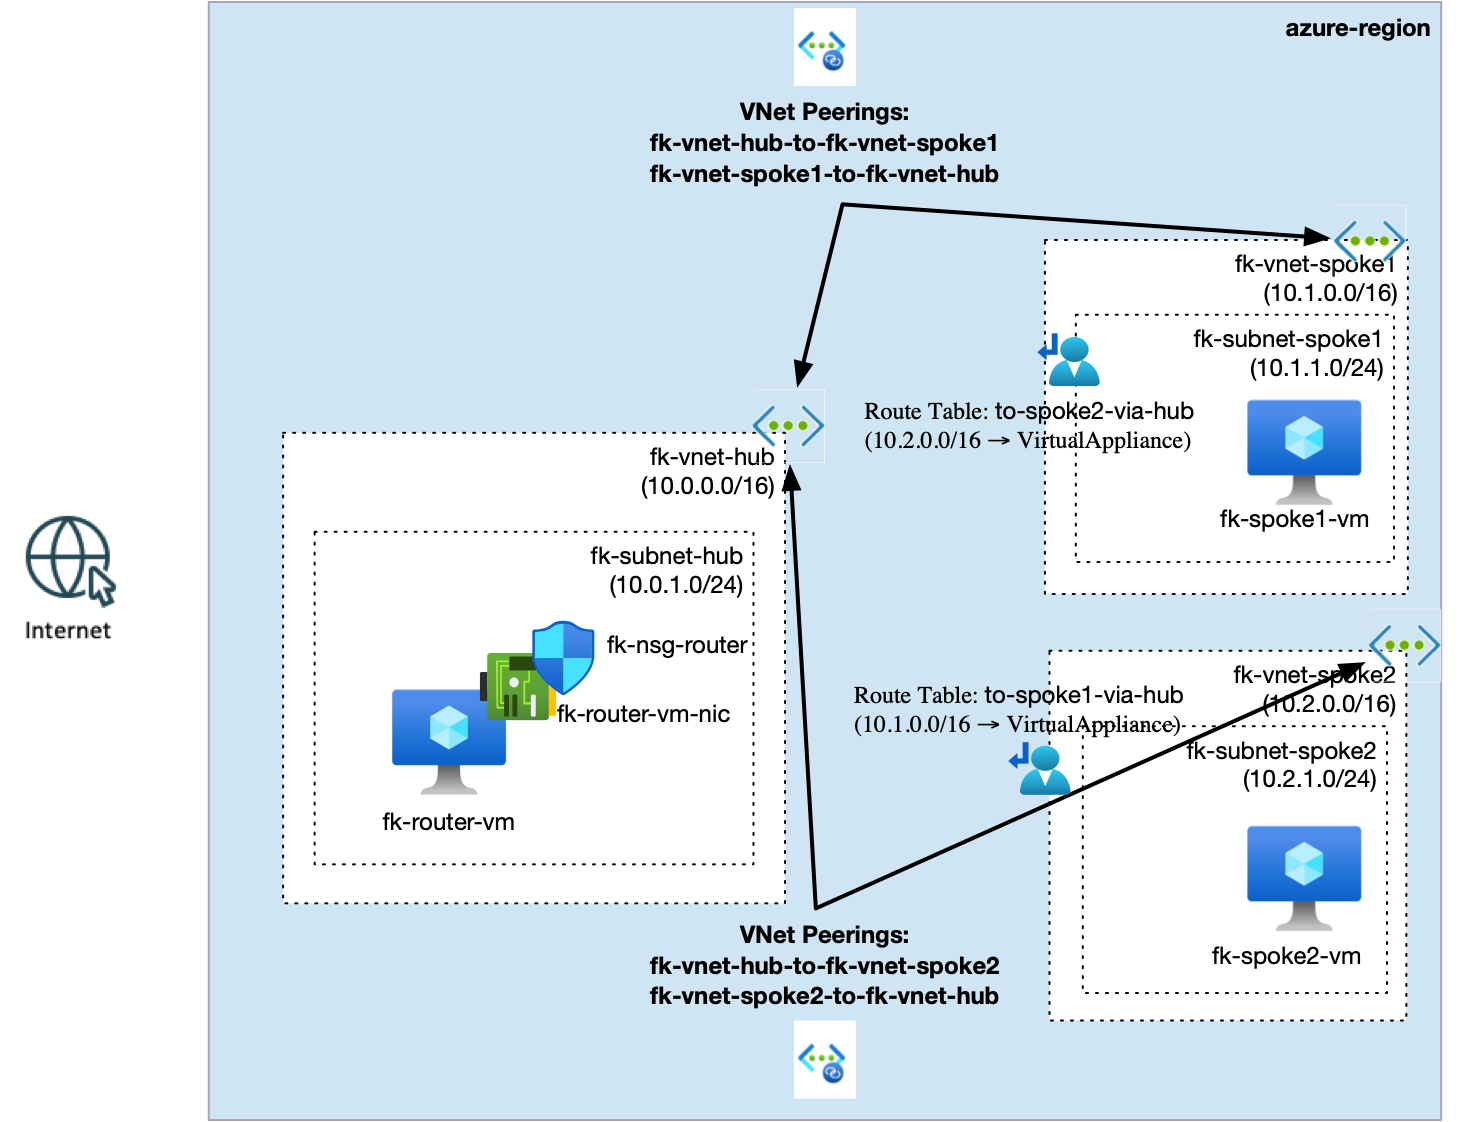
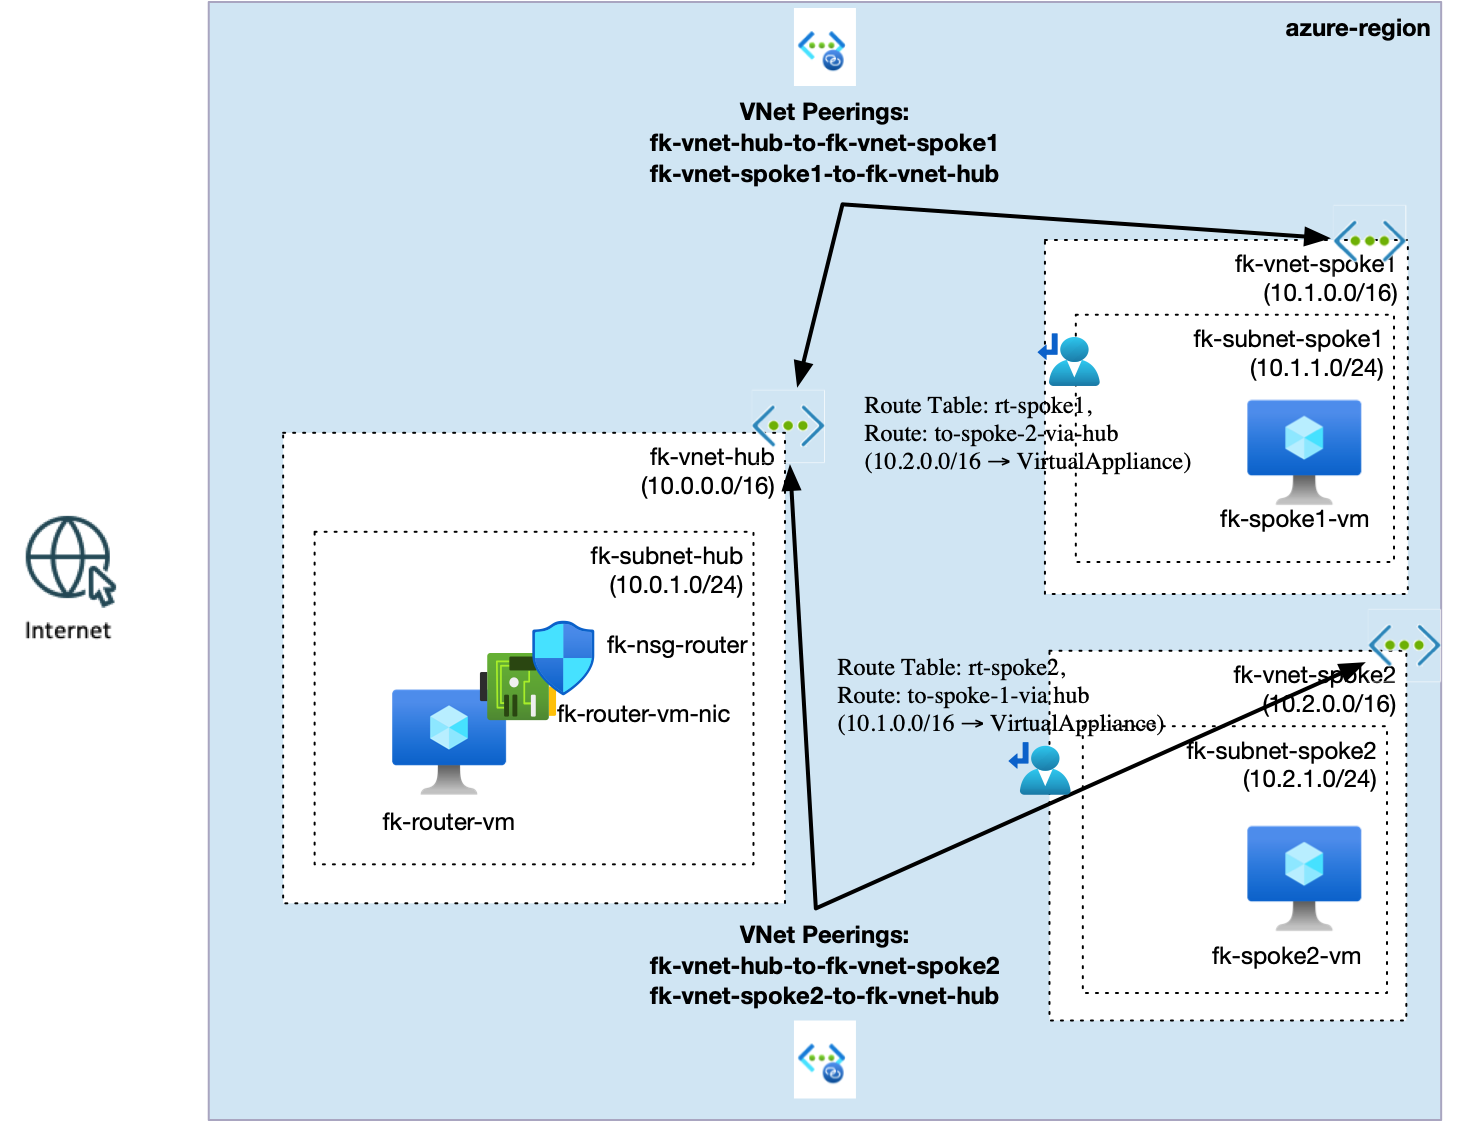
Fixed README and architecture picture

Changed region(s): [[0.5848, 0.3431, 0.8311, 0.4367], [0.554, 0.5927, 0.8003, 0.6551]]

diff --git a/examples/02_hub_spoke_with_routing/README.md b/examples/02_hub_spoke_with_routing/README.md
@@ -6,7 +6,7 @@ The Hub contains a **Linux router VM** built with `terraform-az-fk-compute`, and
 
 To make testing possible, the example also deploys **one Linux VM in Spoke1** and **one Linux VM in Spoke2**.
 
-The SSH key pair is generated locally by `tls.tf`, following the same pattern used in `/Users/mlinxfeld/codes/github/terraform-az-fk-compute/examples/01_single_vm/tls.tf`.
+The SSH key pair is generated locally by `tls.tf`, following the same pattern used in [terraform-az-fk-compute](https://github.com/mlinxfeld/terraform-az-fk-compute/examples/01_single_vm/tls.tf).
 
 ## Architecture Overview
 
